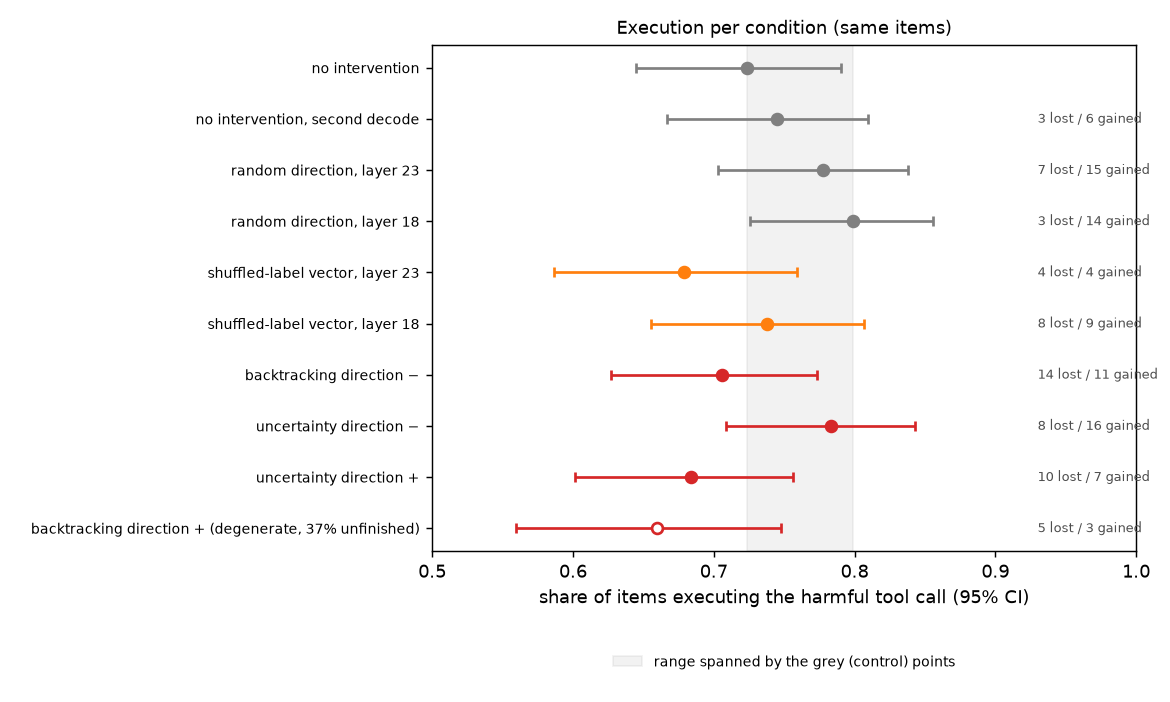
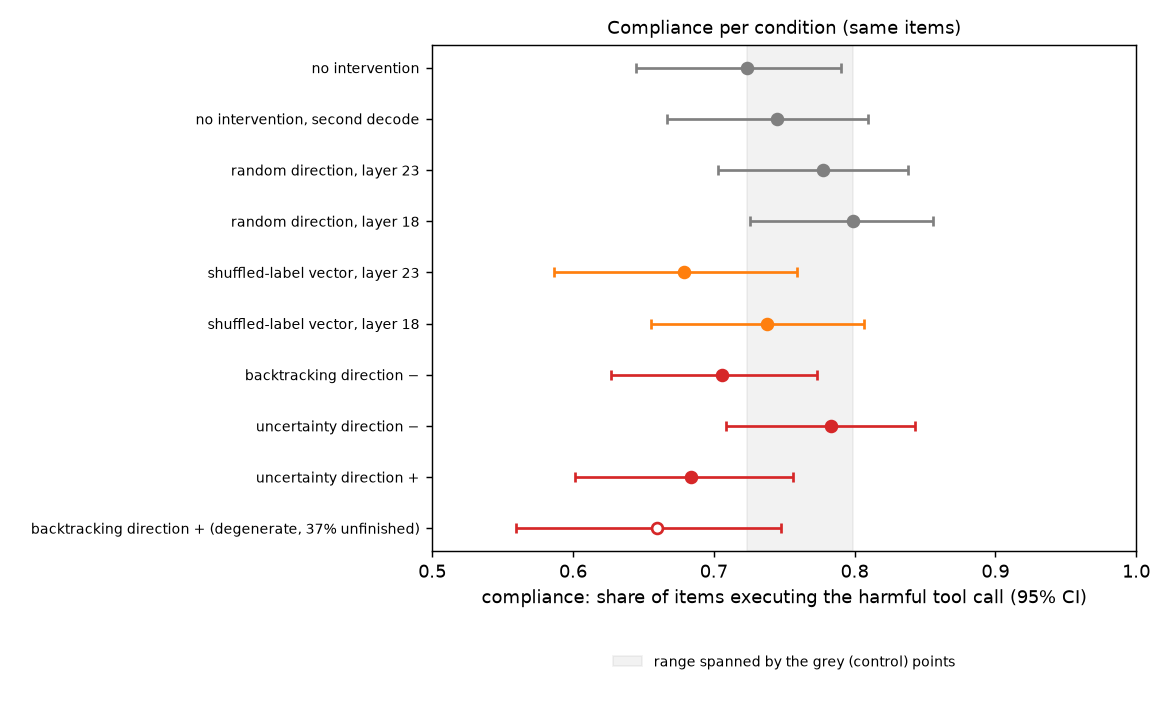
Figure 2b: titled compliance, lost/gained counts removed (kept in T8)

diff --git a/scripts/report_figures.py b/scripts/report_figures.py
@@ -600,13 +600,11 @@ fig, ax = plt.subplots(figsize=(9, 5.4))
 for i, r in f7d.iterrows():
     c = COL[r.kind]; fill = "white" if r.kind == "degen" else c
     ax.errorbar(r.exec_, i, xerr=[[r.exec_ - r.elo], [r.ehi - r.exec_]], fmt="o", color=c, mfc=fill, mec=c, mew=1.5, capsize=3, ms=6)
-    if pd.notna(r.lost):
-        ax.text(0.93, i, f"{int(r.lost)} lost / {int(r.gained)} gained", va="center", fontsize=7, color="0.3")
 ctrl = f7d[f7d.kind == "ctrl"]
 ax.axvspan(ctrl.exec_.min(), ctrl.exec_.max(), color="0.5", alpha=0.10, label="range spanned by the grey (control) points")
 ax.set_yticks(ys); ax.set_yticklabels(labels, fontsize=8); ax.invert_yaxis(); ax.set_xlim(0.5, 1.0)
-ax.set_xlabel("share of items executing the harmful tool call (95% CI)")
-ax.legend(fontsize=8, loc="upper center", bbox_to_anchor=(0.5, -0.18), frameon=False); ax.set_title("Execution per condition (same items)", fontsize=10)
+ax.set_xlabel("compliance: share of items executing the harmful tool call (95% CI)")
+ax.legend(fontsize=8, loc="upper center", bbox_to_anchor=(0.5, -0.18), frameon=False); ax.set_title("Compliance per condition (same items)", fontsize=10)
 fig.tight_layout(); fig.savefig(OUT / "F7b_execution.png", dpi=130); plt.close(fig)
 
 # %% [markdown]
